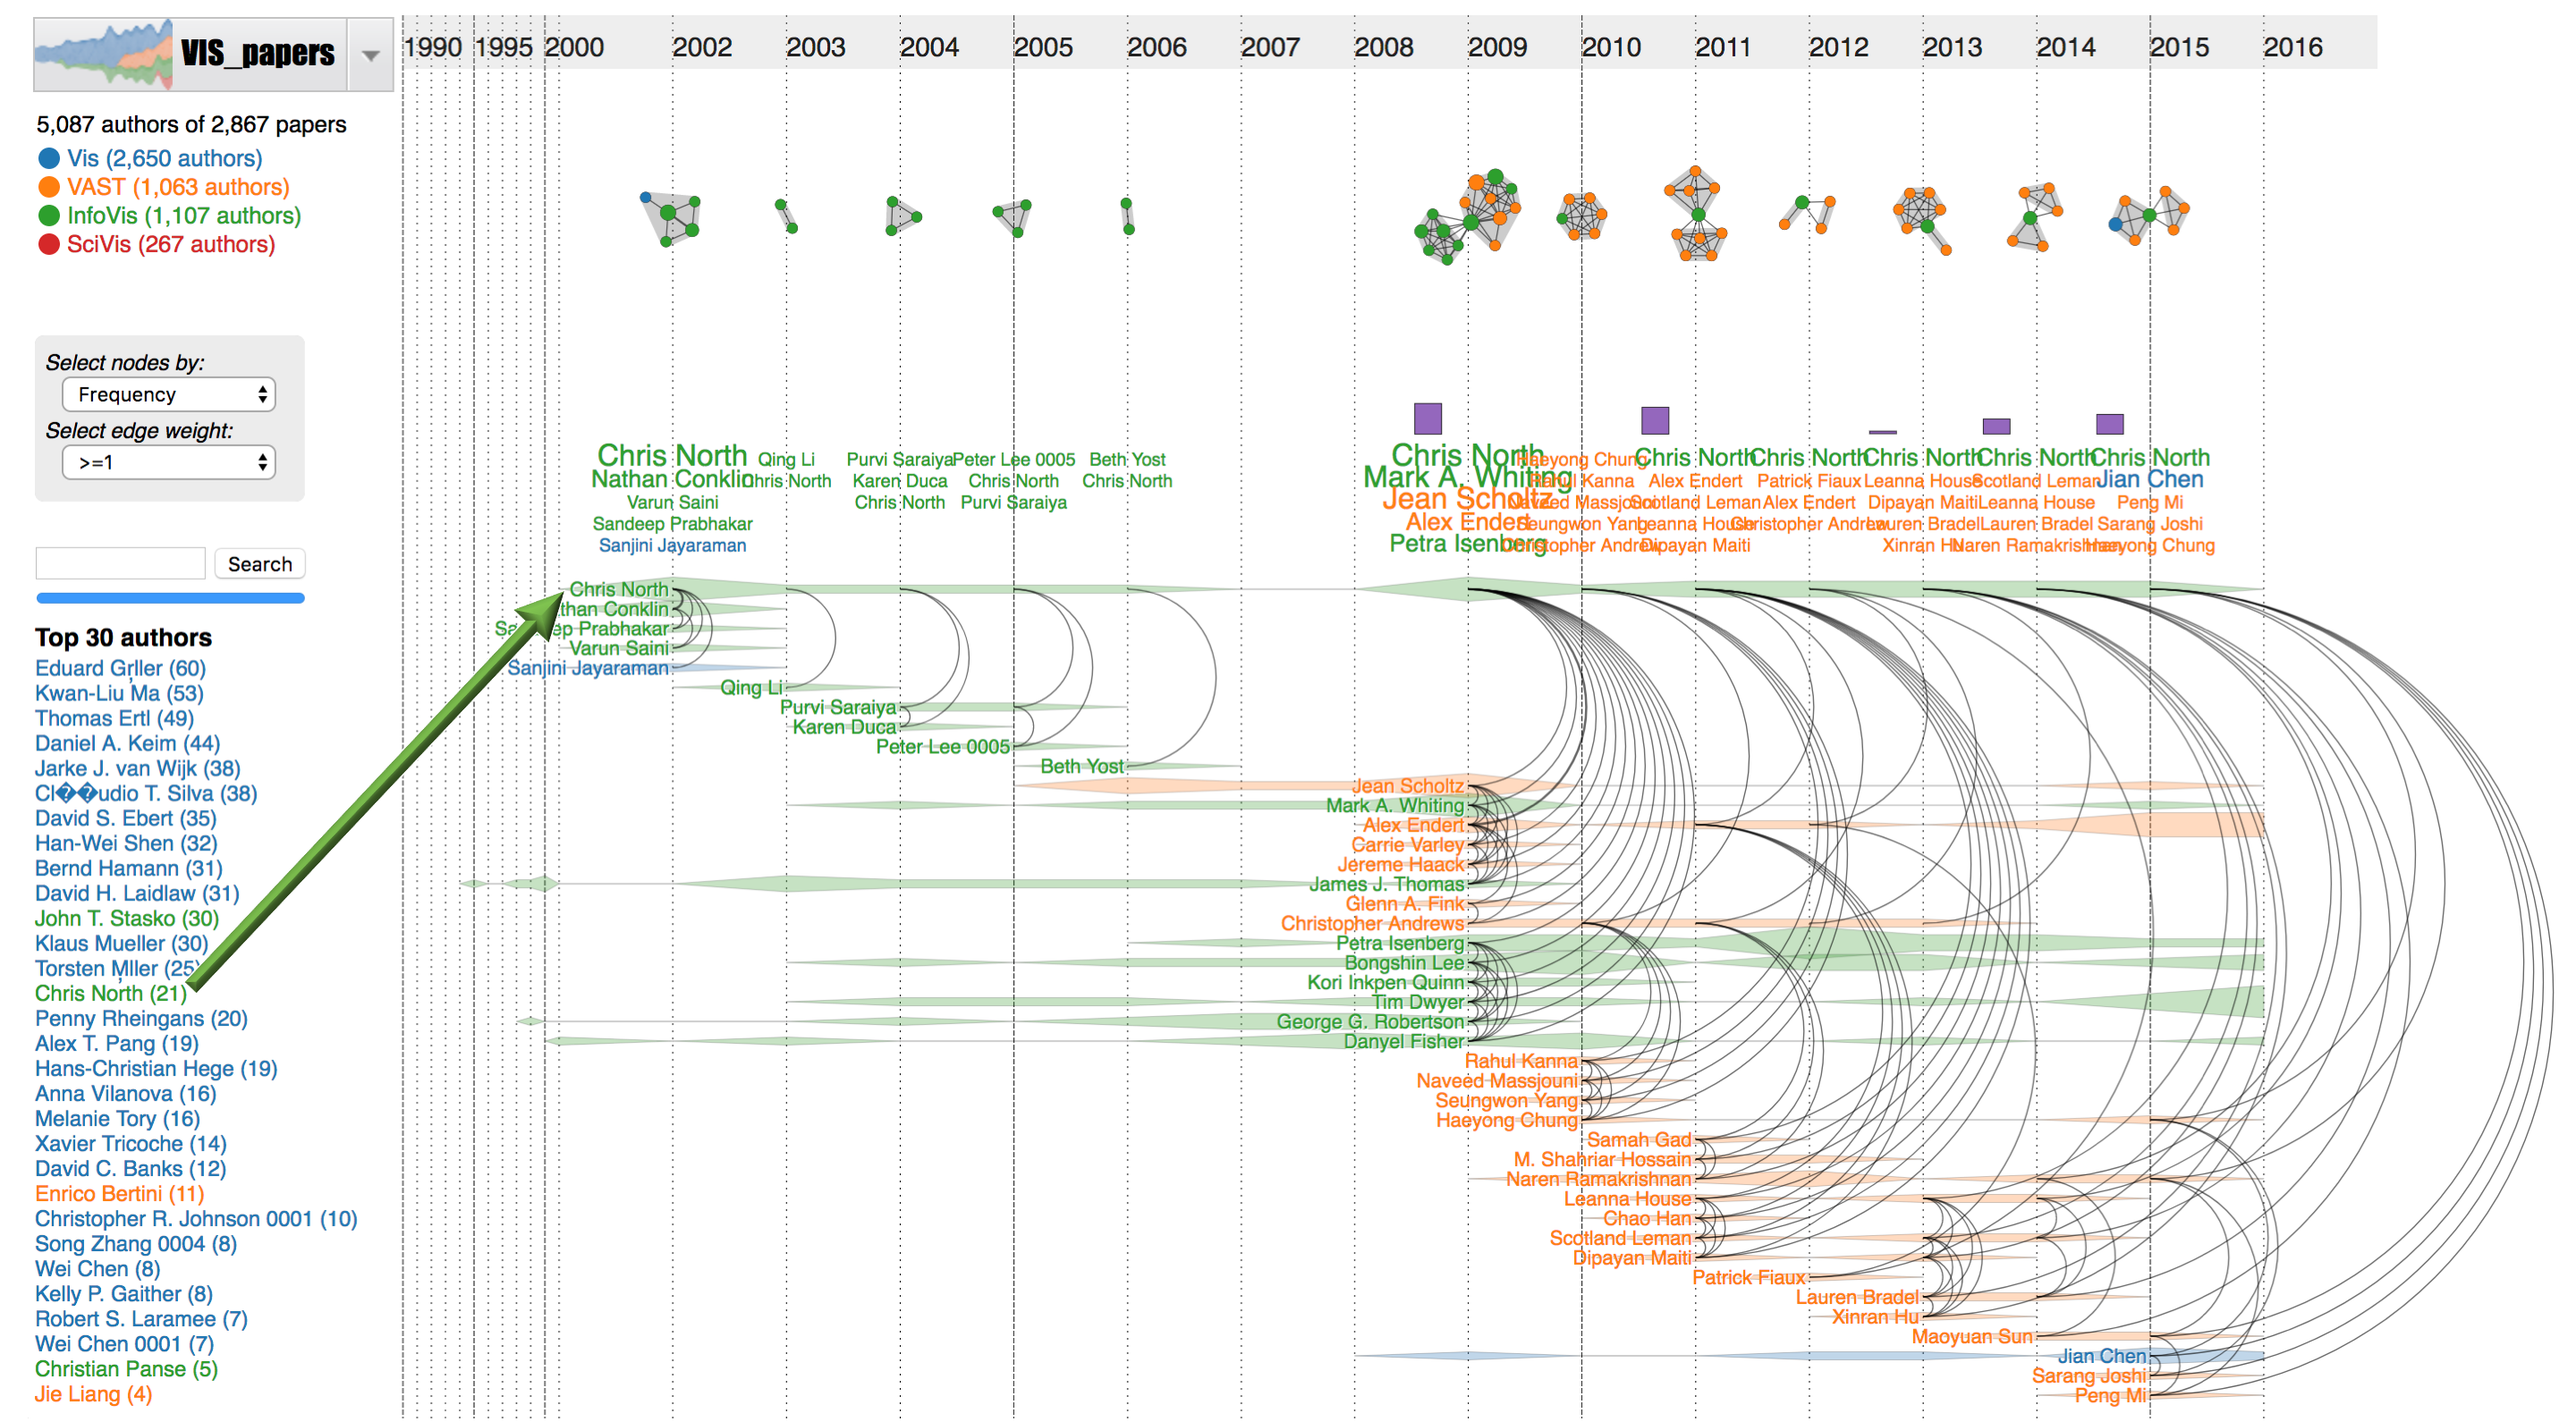
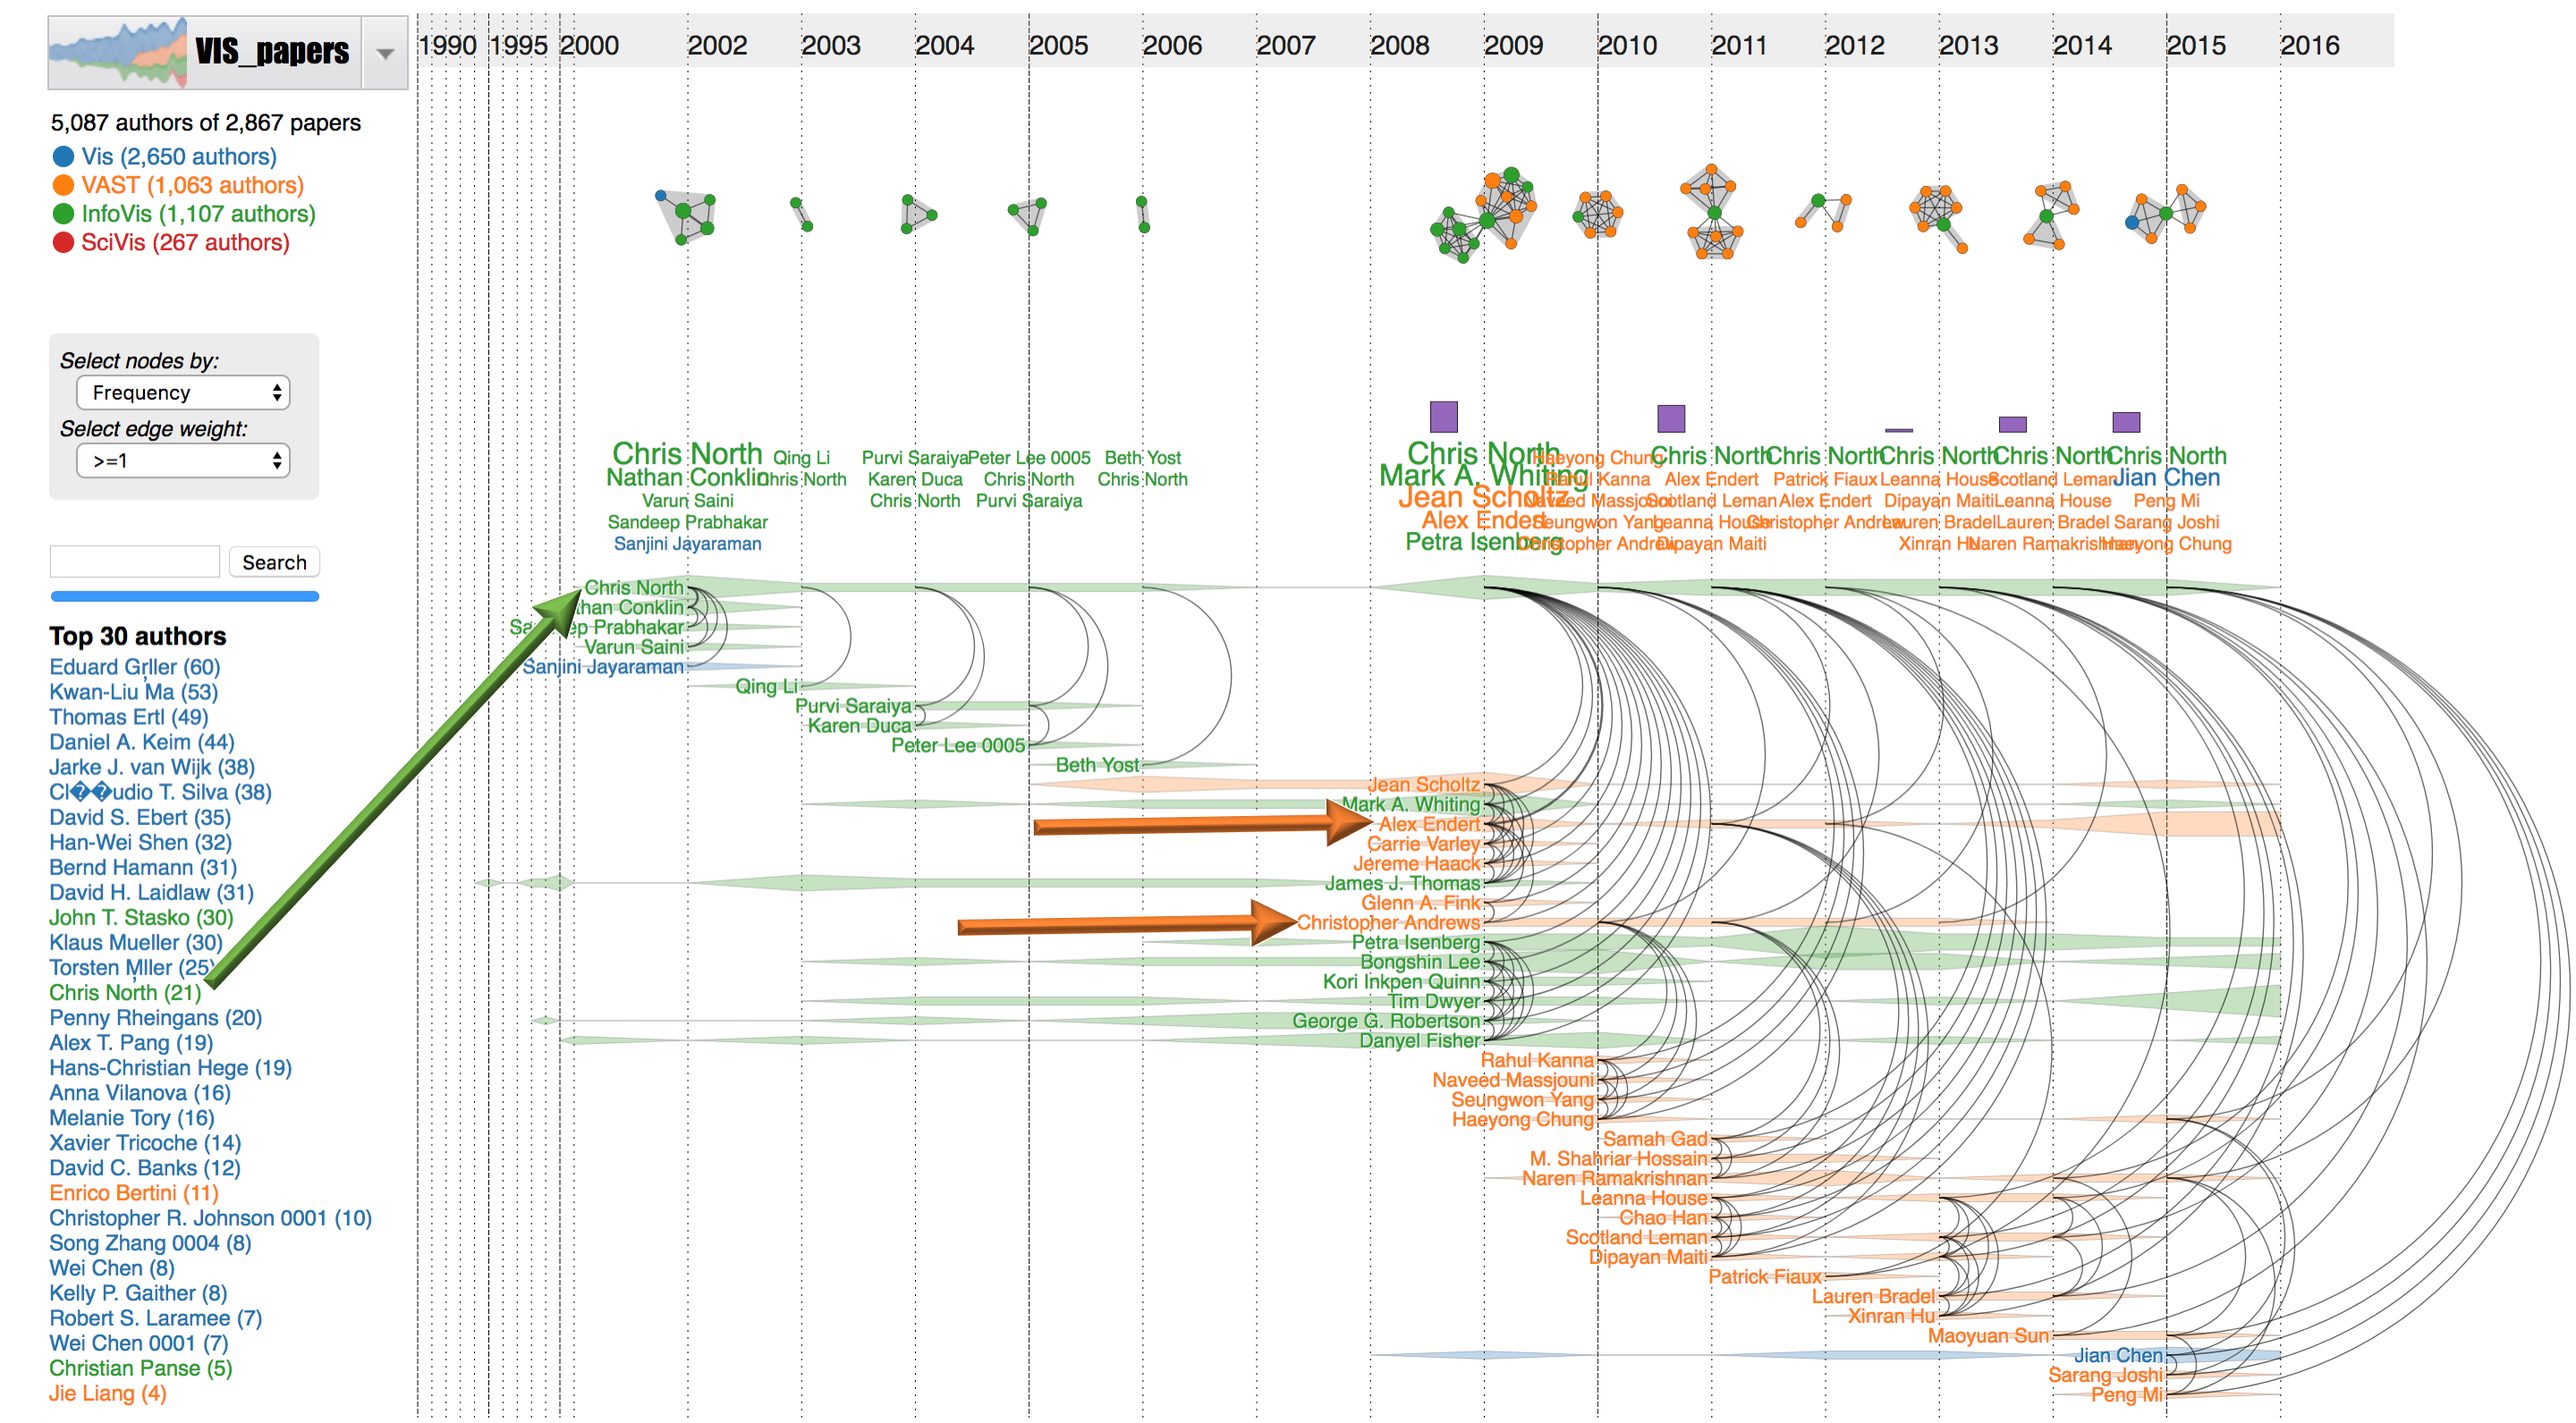
update

diff --git a/usecases.html b/usecases.html
@@ -68,13 +68,14 @@ The <a href="https://www.themoviedb.org/">PopCha database</a> has 172 movies and
 	<center><img src="images2/picsUsecases2/PopCha1.png" width="92%" alt="DycomDetector" /></center>
 
 <h4>2.3 IEEE Visualization (IEEE VIS) publications</h4>
-	<a href="http://www.vispubdata.org/site/vispubdata/home">The IEEE VIS dataset</a> has 2,867 visualization papers accepted in different venues from 1990-2016: <span style="color:#2077b5">Vis</span>, <span style="color:#ff7f0f">VAST</span>, <span style="color:#2c9f2e">InfoVis</span> , and <span style="color:#d52829">SciVis</span>. In following figure, we selected “<span style="color:#2c9f2e">Chris North</span>” from the top authors list (at the origin of the green arrow). We lense on 2002 to 2015 interval. Nodes are <span style="color:#2c9f2e">North</span>'s' co-authors on his IEEE VIS publications which are ranked and scaled based on publication frequency. Two authors are connected as they publish together to one of the IEEE VIS conferences. Communities on the tops are different groups of researchers Ma has been working with. The networks are empty in 2007 and 2008 since he did not have IEEE VIS publications in these two years. The word clouds show top co-authors of <span style="color:#2c9f2e">North</span> over time.
+	<a href="http://www.vispubdata.org/site/vispubdata/home">The IEEE VIS dataset</a> has 2,867 visualization papers accepted in 1990-2016. In following figure, we selected “<span style="color:#2c9f2e">Chris North</span>” from the top authors list (at the origin of the green arrow). Nodes are <span style="color:#2c9f2e">North</span>'s co-authors on his IEEE VIS publications which are ranked and scaled based on their publication frequency. Two authors are connected as they publish together to one of the IEEE VIS venues: <span style="color:#2077b5">Vis</span>, <span style="color:#ff7f0f">VAST</span>, <span style="color:#2c9f2e">InfoVis</span> , and <span style="color:#d52829">SciVis</span>. Detected communities on the top associate with <span style="color:#2c9f2e">North</span>'s VIS papers. The networks are empty in 2007 and 2008 since he did not have IEEE VIS publications in these two years. After that, <span style="color:#2c9f2e">North</span>'s collaboration is expanded significantly. Visualizing the time series, we can easily spot researchers who have strong collaborations with <span style="color:#2c9f2e">Chris North</span>. For example, his <a href="http://people.cs.vt.edu/~north/North-CV.pdf">PhD students</a>, <span style="color:#2c9f2e">Alex Endert</span> (<a href="http://va.gatech.edu/endert/bio/">graduated in 2012</a>) and <span style="color:#2c9f2e">Christopher Andrews</span> (<a href="http://www.cs.middlebury.edu/~candrews/resources/Andrews_CV.pdf">graduated in 2011</a>) at the orange arrows, continuously published at VIS conferences from 2009 to 2013.  
+	<center><img src="images2/picsUsecases2/VIS_ChrisNorth.png" width="96%" alt="DycomDetector" /></center>
 
-	<center><img src="images2/picsUsecases2/VIS_ChrisNorth.png" width="95%" alt="DycomDetector" /></center>
-In another example, we have filtered “<span style="color:#2c9f2e">Daniel Keim</span>” publications. Larger nodes are authors with more publications in a given year. Authors are color-coded by their first publication venue.
+In another example, we have filtered “<span style="color:#2077b5">Daniel Keim</span>” publications. Larger nodes are authors with more publications in a given year. Authors are color-coded by their first publication venue. The word clouds show top co-authors of <span style="color:#2077b5">Keim</span> over years. The arcs diagrams at the bottom summarize <span style="color:#2077b5">Keim</span>'s collaboration network in the past 15 years. At the second blue arrow, <span style="color:#2077b5">Tobias Schreck</span> has a long collaboration history with <span style="color:#2077b5">Daniel Keim</span> since he was a PhD student (<a href="https://www.tugraz.at/institute/cgv/Schreck/">2002-2006</a>).
+	<center><img src="images2/picsUsecases2/VIS_DanielKeim.png" width="96%" alt="DycomDetector" /></center>
 
-	<center><img src="images2/picsUsecases2/VIS_DanielKeim.png" width="95%" alt="DycomDetector" /></center>
-
+<h4>2.3 IEEE Visualization (IEEE VIS) publications</h4>
+<center><img src="images2/picsUsecases2/VIS_DanielKeim.png" width="96%" alt="DycomDetector" /></center>
 	
 </div>
 

diff --git a/myscripts/main.js b/myscripts/main.js
@@ -174,7 +174,7 @@ function loadData(){
             maxRel = 5;
             snapshotScale = 0.22; 
             if (fileName.indexOf("VIS")>=0){
-                minYear = 2000;
+               // minYear = 2000;
                 snapshotScale = 0.14;   
                 maxRel = 10;
             }
